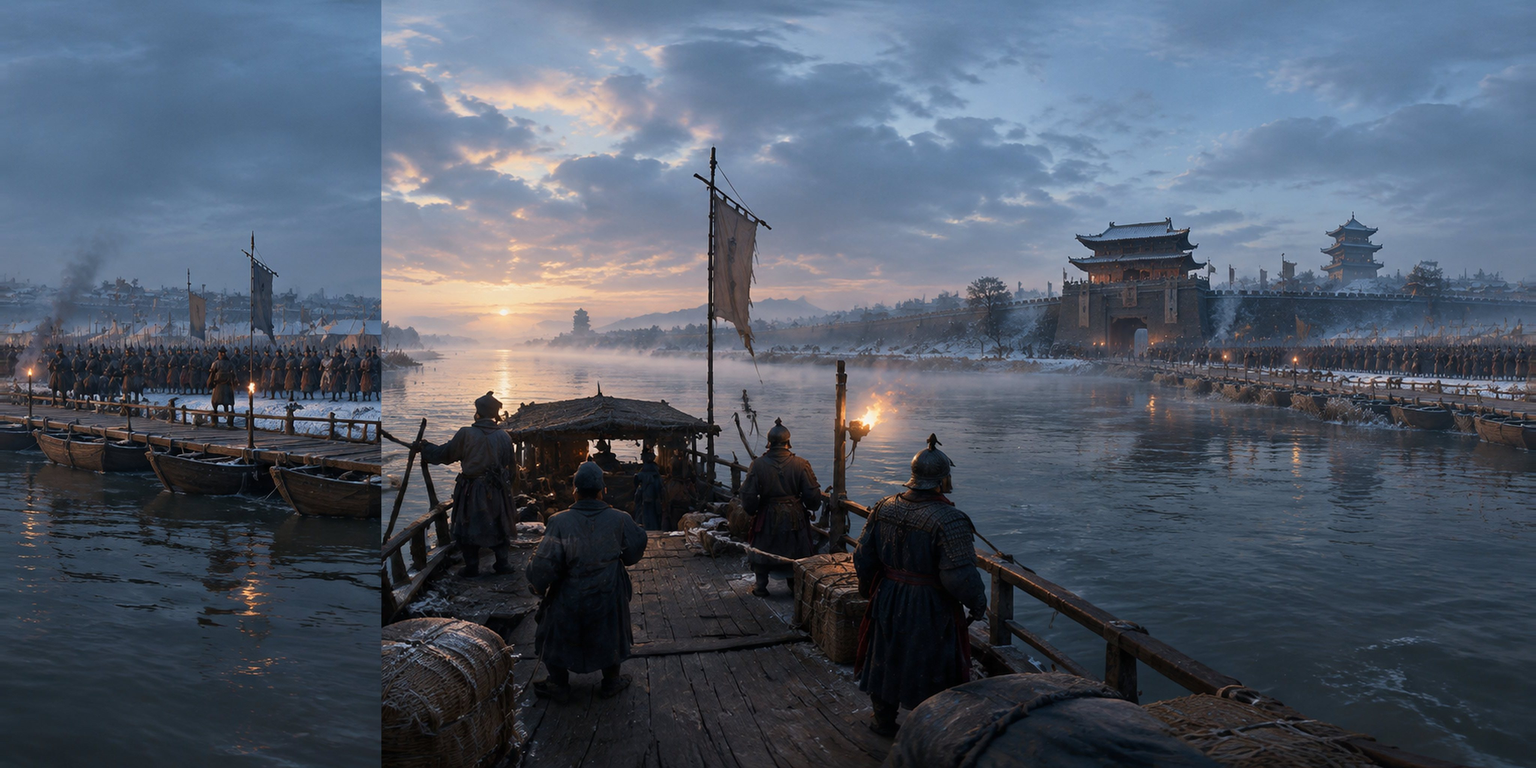
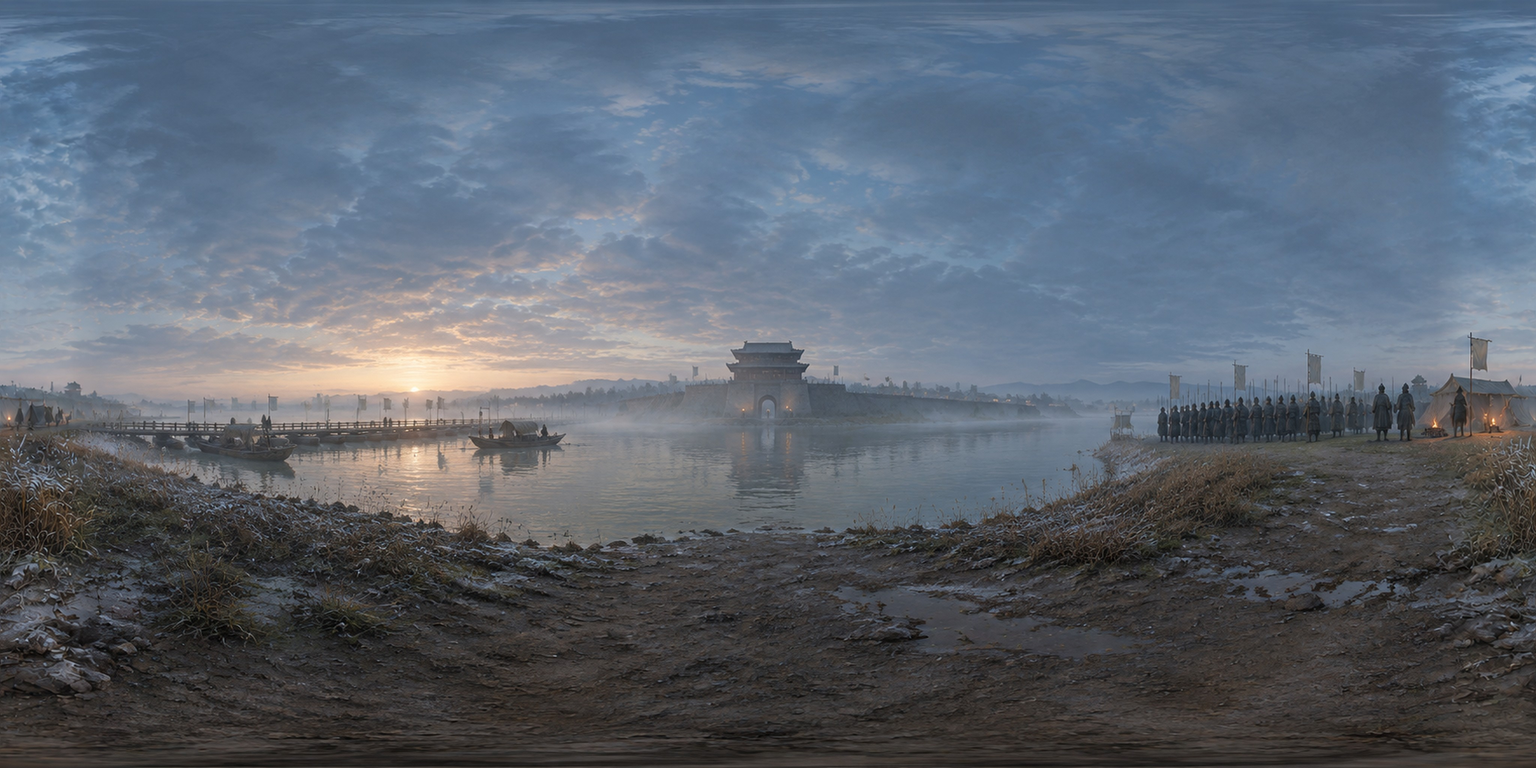
assets: 同步 VR 全景与相关热点数据
- 更新 wudai e06/e07/e08/e11、song e03、suitang e03 的真 2:1 全景
- 校准 VR 热点坐标并更新说明文案
- 替换 e11 事件插画，更新资产清单与图片处理记录

diff --git a/course/data/assets.js b/course/data/assets.js
@@ -6,7 +6,7 @@
  */
 window.ASSET_MANIFEST = {
   version: "1.0.0",
-  updated: "2026-10-23",
+  updated: "2026-10-24",
   items: [
     { id: "bg", theme: "", kind: "image", path: "assets/ui/bg.jpg", spec: "1920x1080 JPEG, sRGB, 16:9, no text/watermark, ≤600KB", provider: "gpt-image2", priority: "P0", status: "ready", promptDoc: "docs/prompts/03_GPT-Image2_美术资产.md", usedBy: ["index.html#bg"], note: "2026-10-23 / gpt-image-2 via cctq.ai" },
     { id: "wudai-cover", theme: "wudai", kind: "image", path: "assets/ui/cover-wudai.jpg", spec: "1920x1080 JPEG, sRGB, 16:9, no text/watermark, 上方留暗部叠标题", provider: "gpt-image2", priority: "P0", status: "ready", promptDoc: "docs/prompts/03_GPT-Image2_美术资产.md", usedBy: ["theme.wudai.js#meta.cover"], note: "2026-10-23 / gpt-image-2 via cctq.ai" },
@@ -22,7 +22,7 @@ window.ASSET_MANIFEST = {
     { id: "wudai-e08", theme: "wudai", kind: "image", path: "assets/events/wudai/e08.jpg", spec: "1920x1080 JPEG, sRGB, 16:9, no text/watermark, ≤600KB", provider: "gpt-image2", priority: "P0", status: "ready", promptDoc: "docs/history/五代十国_图片脚本.md", usedBy: ["theme.wudai.js#e08"], note: "2026-10-23 / gpt-image-2 via cctq.ai" },
     { id: "wudai-e09", theme: "wudai", kind: "image", path: "assets/events/wudai/e09.jpg", spec: "1920x1080 JPEG, sRGB, 16:9, no text/watermark, ≤600KB", provider: "gpt-image2", priority: "P1", status: "ready", promptDoc: "docs/history/五代十国_图片脚本.md", usedBy: ["theme.wudai.js#e09"], note: "2026-10-23 / gpt-image-2 via cctq.ai" },
     { id: "wudai-e10", theme: "wudai", kind: "image", path: "assets/events/wudai/e10.jpg", spec: "1920x1080 JPEG, sRGB, 16:9, no text/watermark, ≤600KB", provider: "gpt-image2", priority: "P0", status: "ready", promptDoc: "docs/history/五代十国_图片脚本.md", usedBy: ["theme.wudai.js#e10"], note: "2026-10-23 / gpt-image-2 via cctq.ai" },
-    { id: "wudai-e11", theme: "wudai", kind: "image", path: "assets/events/wudai/e11.jpg", spec: "1920x1080 JPEG, sRGB, 16:9, no text/watermark, ≤600KB", provider: "procedural", priority: "P1", status: "placeholder", promptDoc: "docs/history/五代十国_图片脚本.md", usedBy: ["theme.wudai.js#e11"], note: "程序化朝堂占位图（tools/build_vr_panos.py）；待 GPT-Image2 真插画替换" },
+    { id: "wudai-e11", theme: "wudai", kind: "image", path: "assets/events/wudai/e11.jpg", spec: "1920x1080 JPEG, sRGB, 16:9, no text/watermark, ≤600KB", provider: "gpt-image2", priority: "P1", status: "ready", promptDoc: "docs/history/五代十国_图片脚本.md", usedBy: ["theme.wudai.js#e11"], note: "2026-10-23 / GPT-Image2 真插画" },
     { id: "suitang-e01", theme: "suitang", kind: "image", path: "assets/events/suitang/e01.jpg", spec: "1920x1080 JPEG, sRGB, 16:9, no text/watermark, ≤600KB", provider: "gpt-image2", priority: "P1", status: "ready", promptDoc: "docs/history/隋唐_图片脚本.md", usedBy: ["theme.suitang.js#e01"], note: "2026-10-23 / gpt-image-2 via cctq.ai" },
     { id: "suitang-e02", theme: "suitang", kind: "image", path: "assets/events/suitang/e02.jpg", spec: "1920x1080 JPEG, sRGB, 16:9, no text/watermark, ≤600KB", provider: "gpt-image2", priority: "P1", status: "ready", promptDoc: "docs/history/隋唐_图片脚本.md", usedBy: ["theme.suitang.js#e02"], note: "2026-10-23 / gpt-image-2 via cctq.ai" },
     { id: "suitang-e03", theme: "suitang", kind: "image", path: "assets/events/suitang/e03.jpg", spec: "1920x1080 JPEG, sRGB, 16:9, no text/watermark, ≤600KB", provider: "gpt-image2", priority: "P1", status: "ready", promptDoc: "docs/history/隋唐_图片脚本.md", usedBy: ["theme.suitang.js#e03"], note: "2026-10-23 / gpt-image-2 via cctq.ai" },
@@ -37,25 +37,34 @@ window.ASSET_MANIFEST = {
   ]
 };
 
-/* v0.4：24 张事件图的 2:1 全景示意（tools/build_vr_panos.py 生成） */
+/* v0.4：事件图全景；未替换槽位仍为程序化 2:1 示意，P0 槽位为 GPT-Image2 真 2:1 环境图。 */
 (function () {
   var ids = [];
   ["wudai/e01","wudai/e02","wudai/e03","wudai/e04","wudai/e05","wudai/e06","wudai/e07","wudai/e08","wudai/e09","wudai/e10","wudai/e11",
    "suitang/e01","suitang/e02","suitang/e03","suitang/e04","suitang/e05","suitang/e06",
    "song/e01","song/e02","song/e03","song/e04"].forEach(function (id) { ids.push(id); });
+  var truePanos = {
+    "wudai/e06": true,
+    "wudai/e07": true,
+    "wudai/e08": true,
+    "wudai/e11": true,
+    "song/e03": true,
+    "suitang/e03": true
+  };
   var panos = ids.map(function (id) {
+    var isTrue = !!truePanos[id];
     return {
       id: "vr-" + id.replace("/", "-"),
       theme: id.split("/")[0],
       kind: "pano",
       path: "assets/vr/" + id + ".jpg",
-      spec: "4096x2048 JPEG, 2:1 equirectangular placeholder",
-      provider: "procedural",
-      priority: "P1",
+      spec: isTrue ? "4096x2048 JPEG, sRGB, 2:1 equirectangular, ≤1.2MB (upscaled from 1774x887)" : "4096x2048 JPEG, 2:1 equirectangular placeholder",
+      provider: isTrue ? "gpt-image2" : "procedural",
+      priority: isTrue ? "P0" : "P1",
       status: "ready",
-      promptDoc: "docs/prompts/04_GPT-Image2_VR全景.md",
+      promptDoc: isTrue ? "docs/handoff/IMAGE_ASSETS_2026-10-24.json" : "docs/prompts/04_GPT-Image2_VR全景.md",
       usedBy: ["js/vr360.js"],
-      note: "由 16:9 AI 插画扩展的 2:1 全景示意，非全景摄影；可替换为 GPT-Image2 真全景"
+      note: isTrue ? "2026-10-24 / GPT-Image2 真 2:1 全景；直接生成球面环境并修补接缝，1774×887 等比上采样至 4096×2048，非原生 4K；AI 艺术复原，非历史影像" : "由 16:9 AI 插画扩展的 2:1 全景示意，非全景摄影；可替换为 GPT-Image2 真全景"
     };
   });
   window.ASSET_MANIFEST.items = window.ASSET_MANIFEST.items.concat(panos);

diff --git a/course/data/theme.wudai.js b/course/data/theme.wudai.js
@@ -486,9 +486,9 @@ window.HISTORY_THEMES.wudai = {
       vr: {
         pano: "assets/vr/wudai/e06.jpg",
         hotspots: [
-          { x: 0.40, y: 0.50, label: "柴荣督战", text: "后周世宗柴荣亲临阵前，督军反击。" },
-          { x: 0.35, y: 0.62, label: "后周盾阵", text: "后周步兵结阵，承受北汉与辽军冲击。" },
-          { x: 0.62, y: 0.52, label: "北汉 / 辽骑兵", text: "北汉与辽军骑兵从侧翼压来，队形为情景示意。" }
+          { x: 0.15, y: 0.57, label: "柴荣督战", text: "后周世宗柴荣亲临阵前，督军反击；人物位置为艺术复原示意。" },
+          { x: 0.49, y: 0.62, label: "后周盾阵", text: "后周步兵结阵，承受北汉与辽军冲击。" },
+          { x: 0.80, y: 0.61, label: "北汉辽骑", text: "北汉与辽军骑兵从侧翼压来，队形为情景示意。" }
         ]
       },
       focus: { dist: 20, az: -14, polar: 52 },
@@ -519,7 +519,7 @@ window.HISTORY_THEMES.wudai = {
       result: "后周军政、财政、法律与漕运得到整顿，国力增强。",
       impact: "为北宋统一奠定制度与军事基础；限制佛教等措施也有社会代价，需并陈。",
       ask: { q: "世宗改革包括哪些方面？为什么说它为北宋统一奠定了基础？", a: "包括整顿禁军、均定田赋、整顿吏治、限制佛教与铸钱、编定刑统、疏浚漕运等；这些措施增强了后周的财政与军力，也为北宋承接制度与统一条件打下基础。" },
-      image: { file: "assets/events/wudai/e11.jpg", alt: "后周世宗柴荣与大臣在汴州朝堂议政的艺术复原占位图。", promptId: "wudai-e11", credit: "占位 · 待 GPT-Image2 替换" },
+      image: { file: "assets/events/wudai/e11.jpg", alt: "冬晨汴州木构朝堂内，柴荣居御座、文官两列、禁军将领在侧，屏风与烛光映衬的艺术复原示意。", promptId: "wudai-e11", credit: "AI 艺术复原示意" },
       focus: { dist: 28, az: 0, polar: 46 },
       historiography: { level: "debate", note: "改革措施与为统一奠定基础是教材共识；限佛/废寺的规模、社会代价与评价存在不同侧重，课堂应并陈。" },
       sources: [
@@ -533,9 +533,9 @@ window.HISTORY_THEMES.wudai = {
       vr: {
         pano: "assets/vr/wudai/e11.jpg",
         hotspots: [
-          { x: 0.50, y: 0.47, label: "柴荣", text: "后周世宗，主持军政、赋税、法制与漕运整顿。" },
-          { x: 0.40, y: 0.60, label: "宰相", text: "朝堂议政的角色化呈现，不是史料原文。" },
-          { x: 0.62, y: 0.61, label: "大臣", text: "户部、御史、禁军将领围绕改革措施发言。" }
+          { x: 0.50, y: 0.50, label: "柴荣", text: "后周世宗，主持军政、赋税、法制与漕运整顿。" },
+          { x: 0.26, y: 0.55, label: "宰相", text: "朝堂议政的角色化呈现，不是史料原文。" },
+          { x: 0.80, y: 0.54, label: "禁军将领", text: "军政整顿中的将领角色；人物面貌与站位为艺术复原示意。" }
         ]
       },
       scene: {
@@ -604,9 +604,9 @@ window.HISTORY_THEMES.wudai = {
       vr: {
         pano: "assets/vr/wudai/e07.jpg",
         hotspots: [
-          { x: 0.58, y: 0.48, label: "寿州城楼", text: "南唐守军据城坚守，后周军多次强攻。" },
-          { x: 0.42, y: 0.59, label: "淮河浮桥", text: "后周军队渡河、攻城，画面为艺术复原示意。" },
-          { x: 0.34, y: 0.64, label: "后周军", text: "后周军以步兵、水军与民夫协同攻城。" }
+          { x: 0.50, y: 0.47, label: "寿州城楼", text: "南唐守军据城坚守，后周军多次强攻。" },
+          { x: 0.29, y: 0.55, label: "淮河浮桥", text: "后周军队渡河、攻城，画面为艺术复原示意。" },
+          { x: 0.73, y: 0.50, label: "攻城器械", text: "后周军以步兵、水军与攻城器械协同作战；器械配置为教学情景示意。" }
         ]
       },
       focus: { dist: 24, az: 12, polar: 48 },
@@ -649,9 +649,9 @@ window.HISTORY_THEMES.wudai = {
       vr: {
         pano: "assets/vr/wudai/e08.jpg",
         hotspots: [
-          { x: 0.58, y: 0.49, label: "瓦桥关", text: "后周收复瓦桥、益津、淤口三关，逼近幽州。" },
-          { x: 0.38, y: 0.61, label: "后周骑兵", text: "后周骑兵北出关城，辽军远退。" },
-          { x: 0.66, y: 0.39, label: "燕山", text: "燕山—长城一线是中原与辽对峙的地理屏障。" }
+          { x: 0.50, y: 0.54, label: "瓦桥关", text: "后周收复瓦桥、益津、淤口三关，逼近幽州。" },
+          { x: 0.20, y: 0.57, label: "后周骑兵", text: "后周骑兵北出关城，辽军远退。" },
+          { x: 0.83, y: 0.57, label: "辽军远退", text: "远方契丹骑兵的艺术复原位置，不代表精确历史行军路线。" }
         ]
       },
       focus: { dist: 18, az: 14, polar: 50 },

diff --git a/course/data/theme.song.js b/course/data/theme.song.js
@@ -180,6 +180,14 @@ window.HISTORY_THEMES.song = {
       impact: "宋辽进入议和窗口。",
       ask: { q: "宋真宗亲征对澶渊之盟有什么影响？", a: "亲征提振了宋军士气，使宋方在议和中不至于完全被动；但真宗与部分大臣仍倾向求和，最终以岁币换取和平。" },
       image: { file: "assets/events/song/e03.jpg", alt: "宋真宗亲征澶州、黄河渡口营帐与军阵的艺术复原示意。", promptId: "song-e03", credit: "AI 艺术复原示意" },
+      vr: {
+        pano: "assets/vr/song/e03.jpg",
+        hotspots: [
+          { x: 0.50, y: 0.52, label: "澶州城楼", text: "1004 年冬，宋真宗亲临澶州，提振宋军士气。城楼为艺术复原示意。" },
+          { x: 0.23, y: 0.56, label: "黄河浮桥", text: "黄河渡口与浮桥连接两岸，画面不代表精确历史水道与桥位。" },
+          { x: 0.84, y: 0.54, label: "宋军阵列", text: "宋军驻守河岸；兵力、甲胄细节与阵型为教学情景示意。" }
+        ]
+      },
       focus: { dist: 18, az: -8, polar: 50 },
       historiography: { level: "consensus", note: "真宗亲征的具体日期与渡河细节各书略有差异；寇准力主亲征为教材共识。" },
       sources: [

diff --git a/course/data/theme.suitang.js b/course/data/theme.suitang.js
@@ -185,6 +185,14 @@ window.HISTORY_THEMES.suitang = {
       impact: "长安门户洞开，玄宗被迫西逃。",
       ask: { q: "潼关失守的主要原因是什么？", a: "唐玄宗、杨国忠催逼哥舒翰放弃坚守、出关决战；唐军在中伏后大败，潼关失守。战略决策失误是主因。" },
       image: { file: "assets/events/suitang/e03.jpg", alt: "潼关山隘唐军溃败的艺术复原示意。", promptId: "suitang-e03", credit: "AI 艺术复原示意" },
+      vr: {
+        pano: "assets/vr/suitang/e03.jpg",
+        hotspots: [
+          { x: 0.50, y: 0.51, label: "潼关关隘", text: "756 年唐军被迫出关决战，战败后潼关失守，长安门户洞开。" },
+          { x: 0.39, y: 0.56, label: "出关唐军", text: "哥舒翰所部出关的艺术复原场景，不代表精确阵型与兵力。" },
+          { x: 0.70, y: 0.51, label: "山坡伏兵", text: "山坡上的燕军伏兵表现山隘作战风险，地形与站位为艺术复原示意。" }
+        ]
+      },
       focus: { dist: 16, az: -12, polar: 52 },
       historiography: { level: "consensus", note: "哥舒翰被俘后投降的细节各书略有差异；“被迫出关”为教材共识。" },
       sources: [
